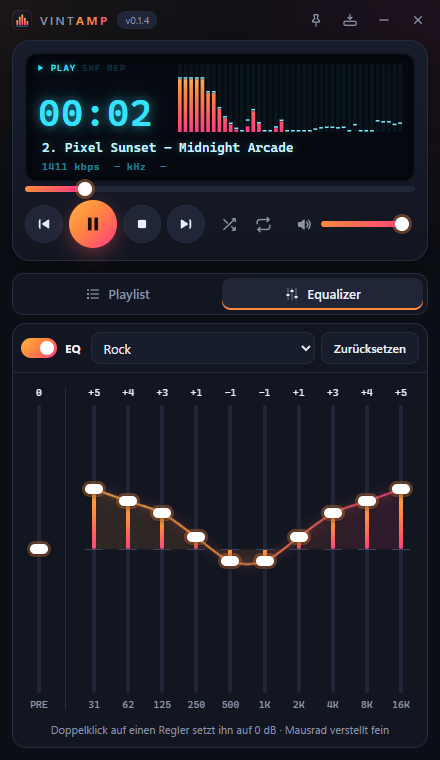
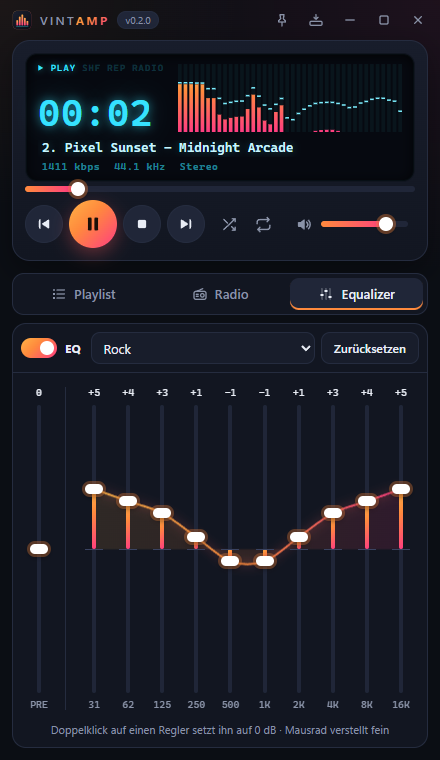
Docs: Internetradio und breite Ansicht (v0.2.0)

diff --git a/README.md b/README.md
@@ -1,8 +1,8 @@
 # Vintamp
 
 **Der Player, wie er früher war – nur schöner.**
-Klein, schnell, startet sofort und spielt so gut wie alles, Musik wie Video: mit Equalizer,
-Spektrum-Visualizer und Mini-Modus, im modernen dunklen Design.
+Klein, schnell, startet sofort und spielt so gut wie alles, Musik wie Video: mit Internetradio,
+Equalizer, Spektrum-Visualizer und Mini-Modus, im modernen dunklen Design.
 
 > Vintamp hieß bis Version 0.1.3 **Retroamp**. Installierte Versionen werden automatisch
 > umgestellt – Playlist und Einstellungen bleiben erhalten.
@@ -10,10 +10,14 @@ Spektrum-Visualizer und Mini-Modus, im modernen dunklen Design.
 **[⬇ Neueste Version für Windows herunterladen](https://github.com/hunther2k/vintamp-releases/releases/latest)**
 
 <p>
-  <img src="docs/player.png" alt="Vintamp – Player mit Playlist" width="300">
+  <img src="docs/player.png" alt="Vintamp – Player mit Playlist" width="250">
   &nbsp;
-  <img src="docs/equalizer.png" alt="Vintamp – 10-Band-Equalizer" width="300">
+  <img src="docs/radio.png" alt="Vintamp – Internetradio" width="250">
+  &nbsp;
+  <img src="docs/equalizer.png" alt="Vintamp – 10-Band-Equalizer" width="250">
 </p>
+
+<p><img src="docs/breit.png" alt="Vintamp – breite Ansicht mit Senderliste und großem Visualizer" width="790"></p>
 
 ---
 
@@ -32,12 +36,21 @@ Spektrum-Visualizer und Mini-Modus, im modernen dunklen Design.
 - Zufallswiedergabe, Wiederholen (alle oder einen Titel)
 - Bleibt beim nächsten Start erhalten
 
+**Internetradio**
+- Über 50.000 Sender weltweit aus dem freien Verzeichnis radio-browser.info
+- Suche nach Name, Land und Genre – die beliebtesten Sender zuerst, mit Senderlogo
+- Favoriten mit einem Klick auf den Stern
+- Laufender Titel des Senders im Display, Weiter/Zurück wechselt den Sender
+- Vintamp merkt sich den letzten Sender – Play beim nächsten Start spielt ihn weiter
+
 **Klang**
 - 10-Band-Equalizer mit Vorverstärker – Änderungen wirken sofort, ohne Knacken
 - 12 Voreinstellungen (Rock, Pop, Jazz, Klassik, Bass-Boost, Stimme, Kopfhörer …)
 
 **Bedienung**
 - Spektrum-Visualizer mit drei Darstellungen
+- Maximiert oder im Vollbild (F11) zweispaltig: Player und großer Visualizer links,
+  Playlist mit Spalten (Titel, Interpret, Album, Typ, Länge) bzw. Senderliste rechts
 - Mini-Modus als schmale Leiste und „Immer im Vordergrund“
 - Medientasten der Tastatur und klassische Tastenkürzel (Z X C V B)
 
@@ -51,14 +64,13 @@ Spektrum-Visualizer und Mini-Modus, im modernen dunklen Design.
 
 | | Funktion | Darum geht's |
 |---|---|---|
-| 1 | **Internetradio** | Über 50.000 Sender weltweit, Suche nach Name, Land und Genre, Favoriten, laufender Titel im Display |
-| 2 | **Radio-Aufnahme** | Sendungen mitschneiden – automatisch in einzelne Titel aufgeteilt und mit Interpret und Titel versehen |
-| 3 | **Schnell-Schnitt** | Wellenform-Ansicht: Anfang oder Ende abschneiden, einen Teil in der Mitte entfernen, ein- und ausblenden – MP3s ohne Qualitätsverlust |
-| 4 | **Tag-Editor** | Titel, Interpret, Album, Jahr, Genre, Tracknummer und Cover bearbeiten – auch für viele Dateien auf einmal, Tags aus dem Dateinamen übernehmen |
-| 5 | **Videoplayer im Fenster** | Videos direkt in Vintamp, mit Untertiteln, Vollbild und Wiedergabegeschwindigkeit |
-| 6 | **YouTube Music** | Deine YouTube-Music-Bibliothek in Vintamp nutzen |
-| 7 | **Spotify** | Spotify aus Vintamp steuern: Suche, Playlists, aktueller Titel im Display (über Spotify Connect, Premium nötig) |
-| 8 | **Linux & macOS** | Vintamp auf allen drei Systemen |
+| 1 | **Radio-Aufnahme** | Sendungen mitschneiden – automatisch in einzelne Titel aufgeteilt und mit Interpret und Titel versehen |
+| 2 | **Schnell-Schnitt** | Wellenform-Ansicht: Anfang oder Ende abschneiden, einen Teil in der Mitte entfernen, ein- und ausblenden – MP3s ohne Qualitätsverlust |
+| 3 | **Tag-Editor** | Titel, Interpret, Album, Jahr, Genre, Tracknummer und Cover bearbeiten – auch für viele Dateien auf einmal, Tags aus dem Dateinamen übernehmen |
+| 4 | **Videoplayer im Fenster** | Videos direkt in Vintamp, mit Untertiteln, Vollbild und Wiedergabegeschwindigkeit |
+| 5 | **YouTube Music** | Deine YouTube-Music-Bibliothek in Vintamp nutzen |
+| 6 | **Spotify** | Spotify aus Vintamp steuern: Suche, Playlists, aktueller Titel im Display (über Spotify Connect, Premium nötig) |
+| 7 | **Linux & macOS** | Vintamp auf allen drei Systemen |
 
 ## Ideen für später
 
